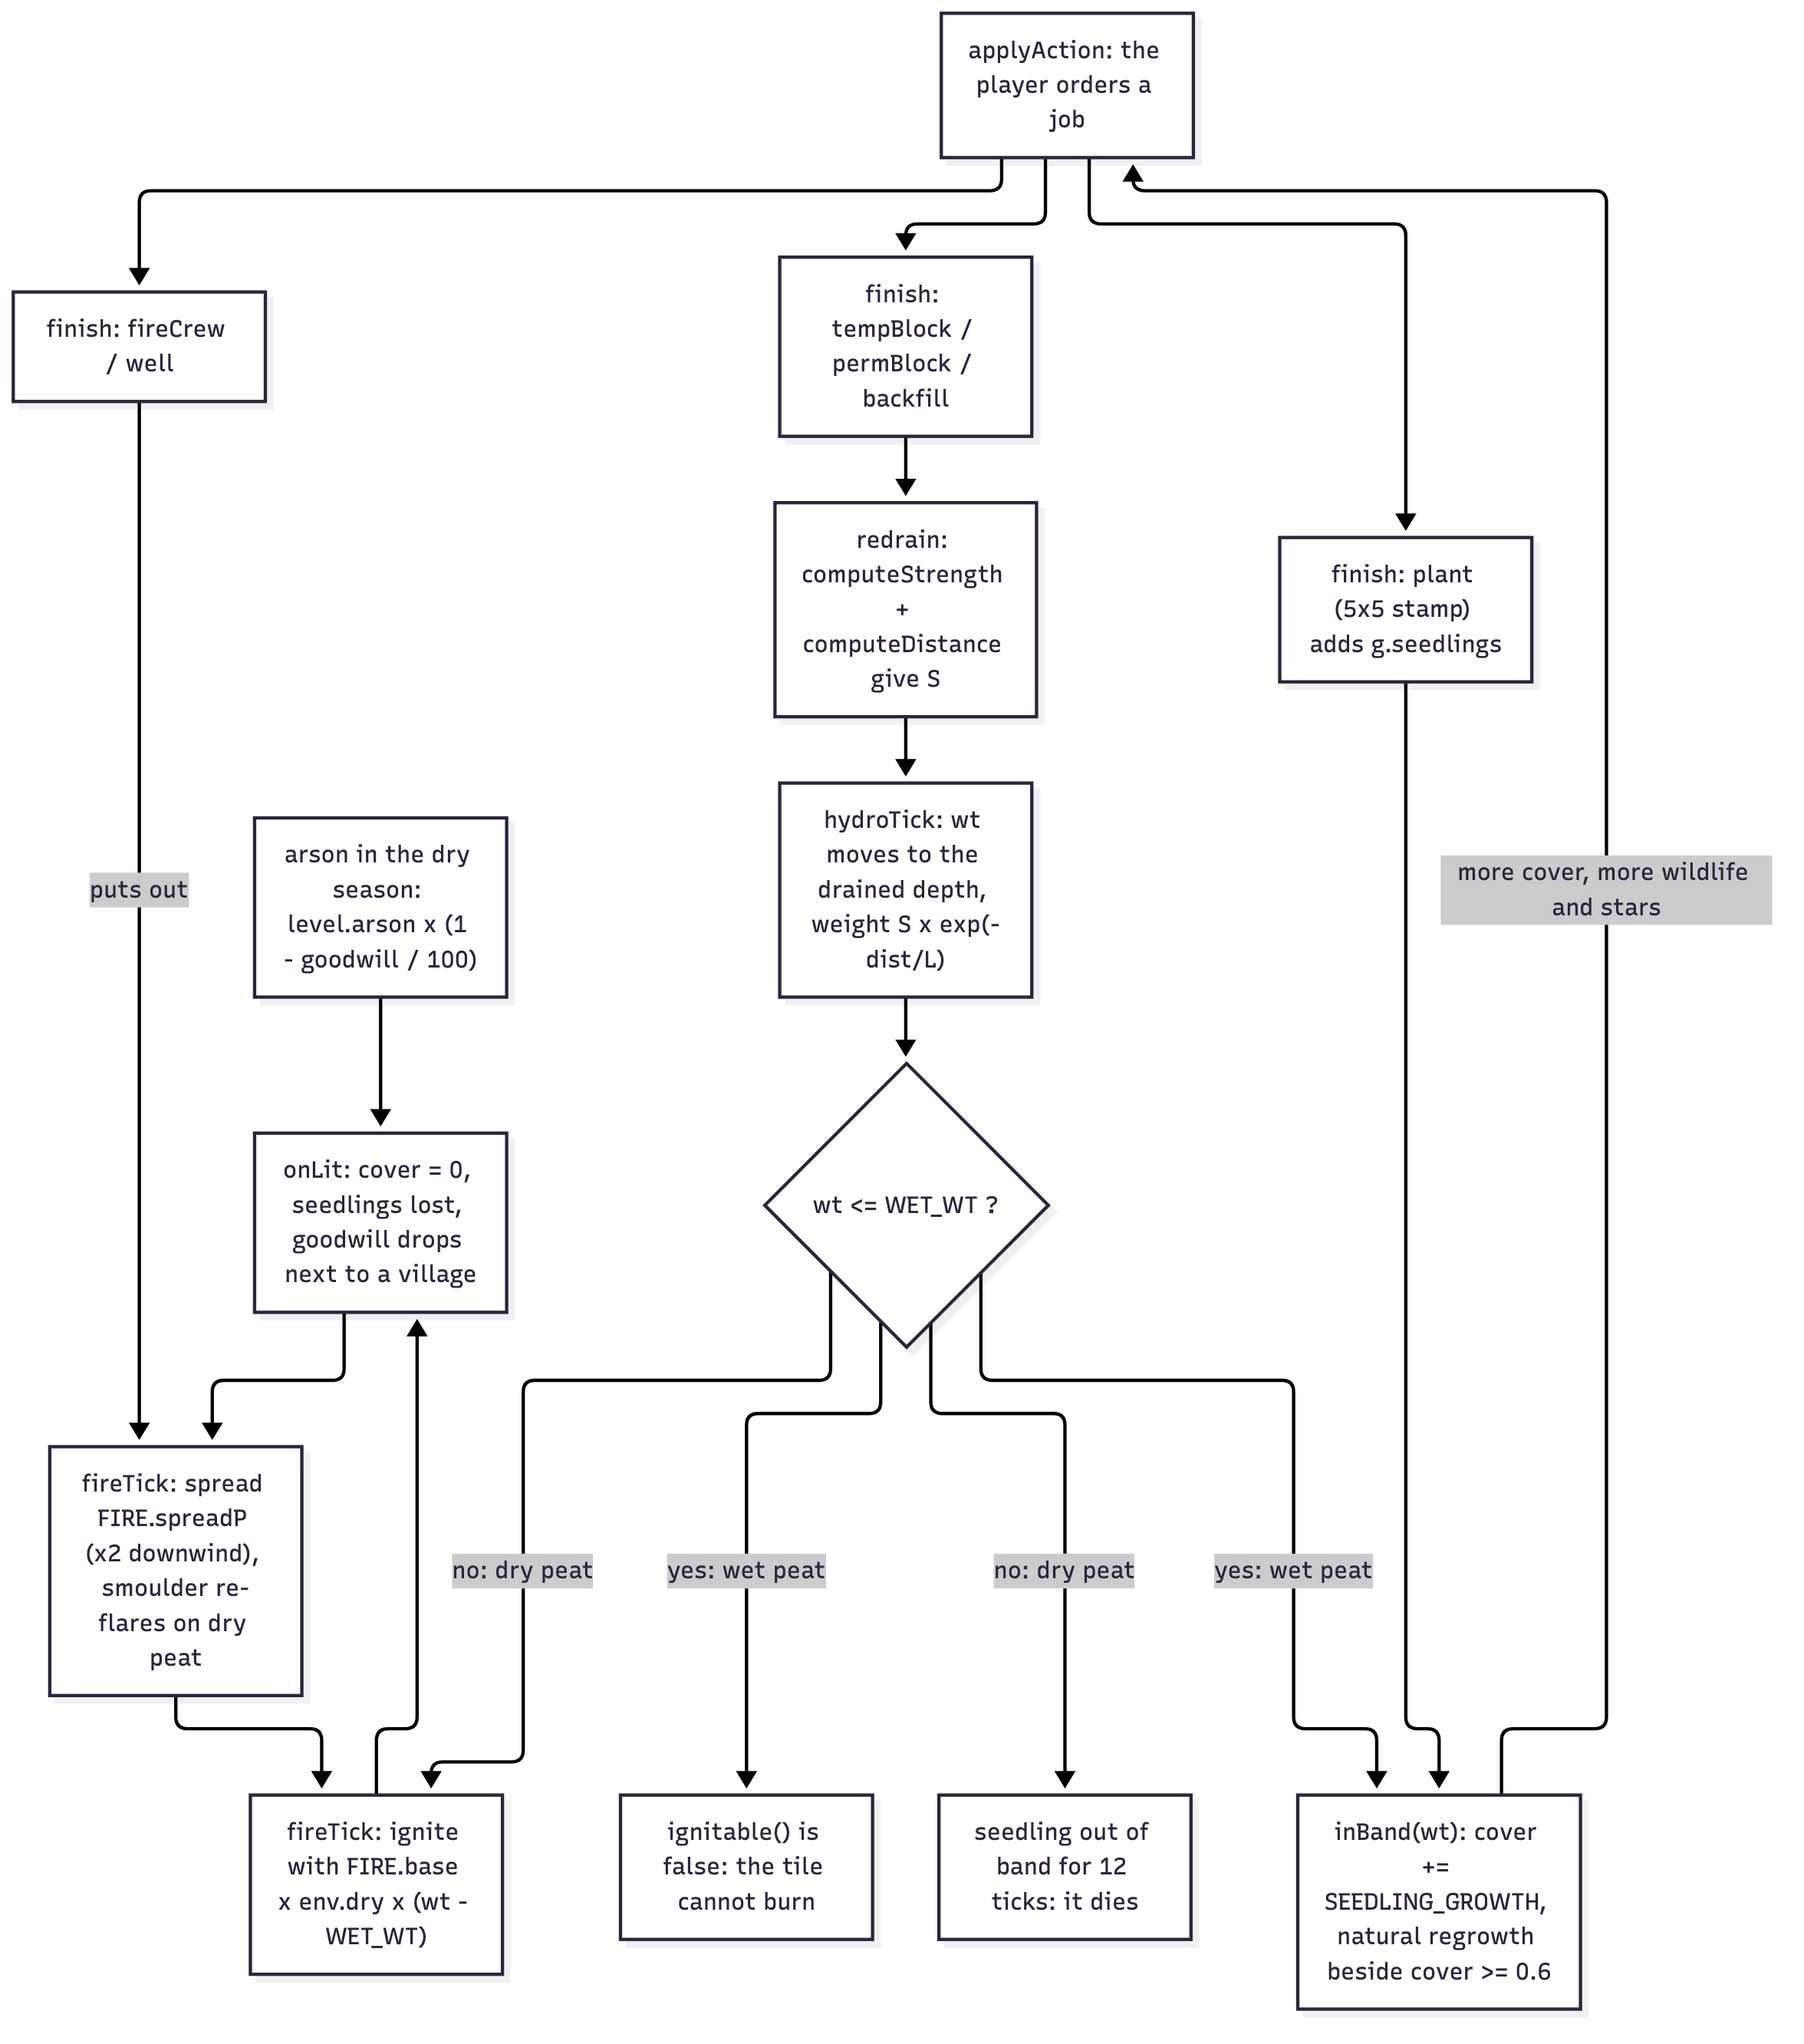
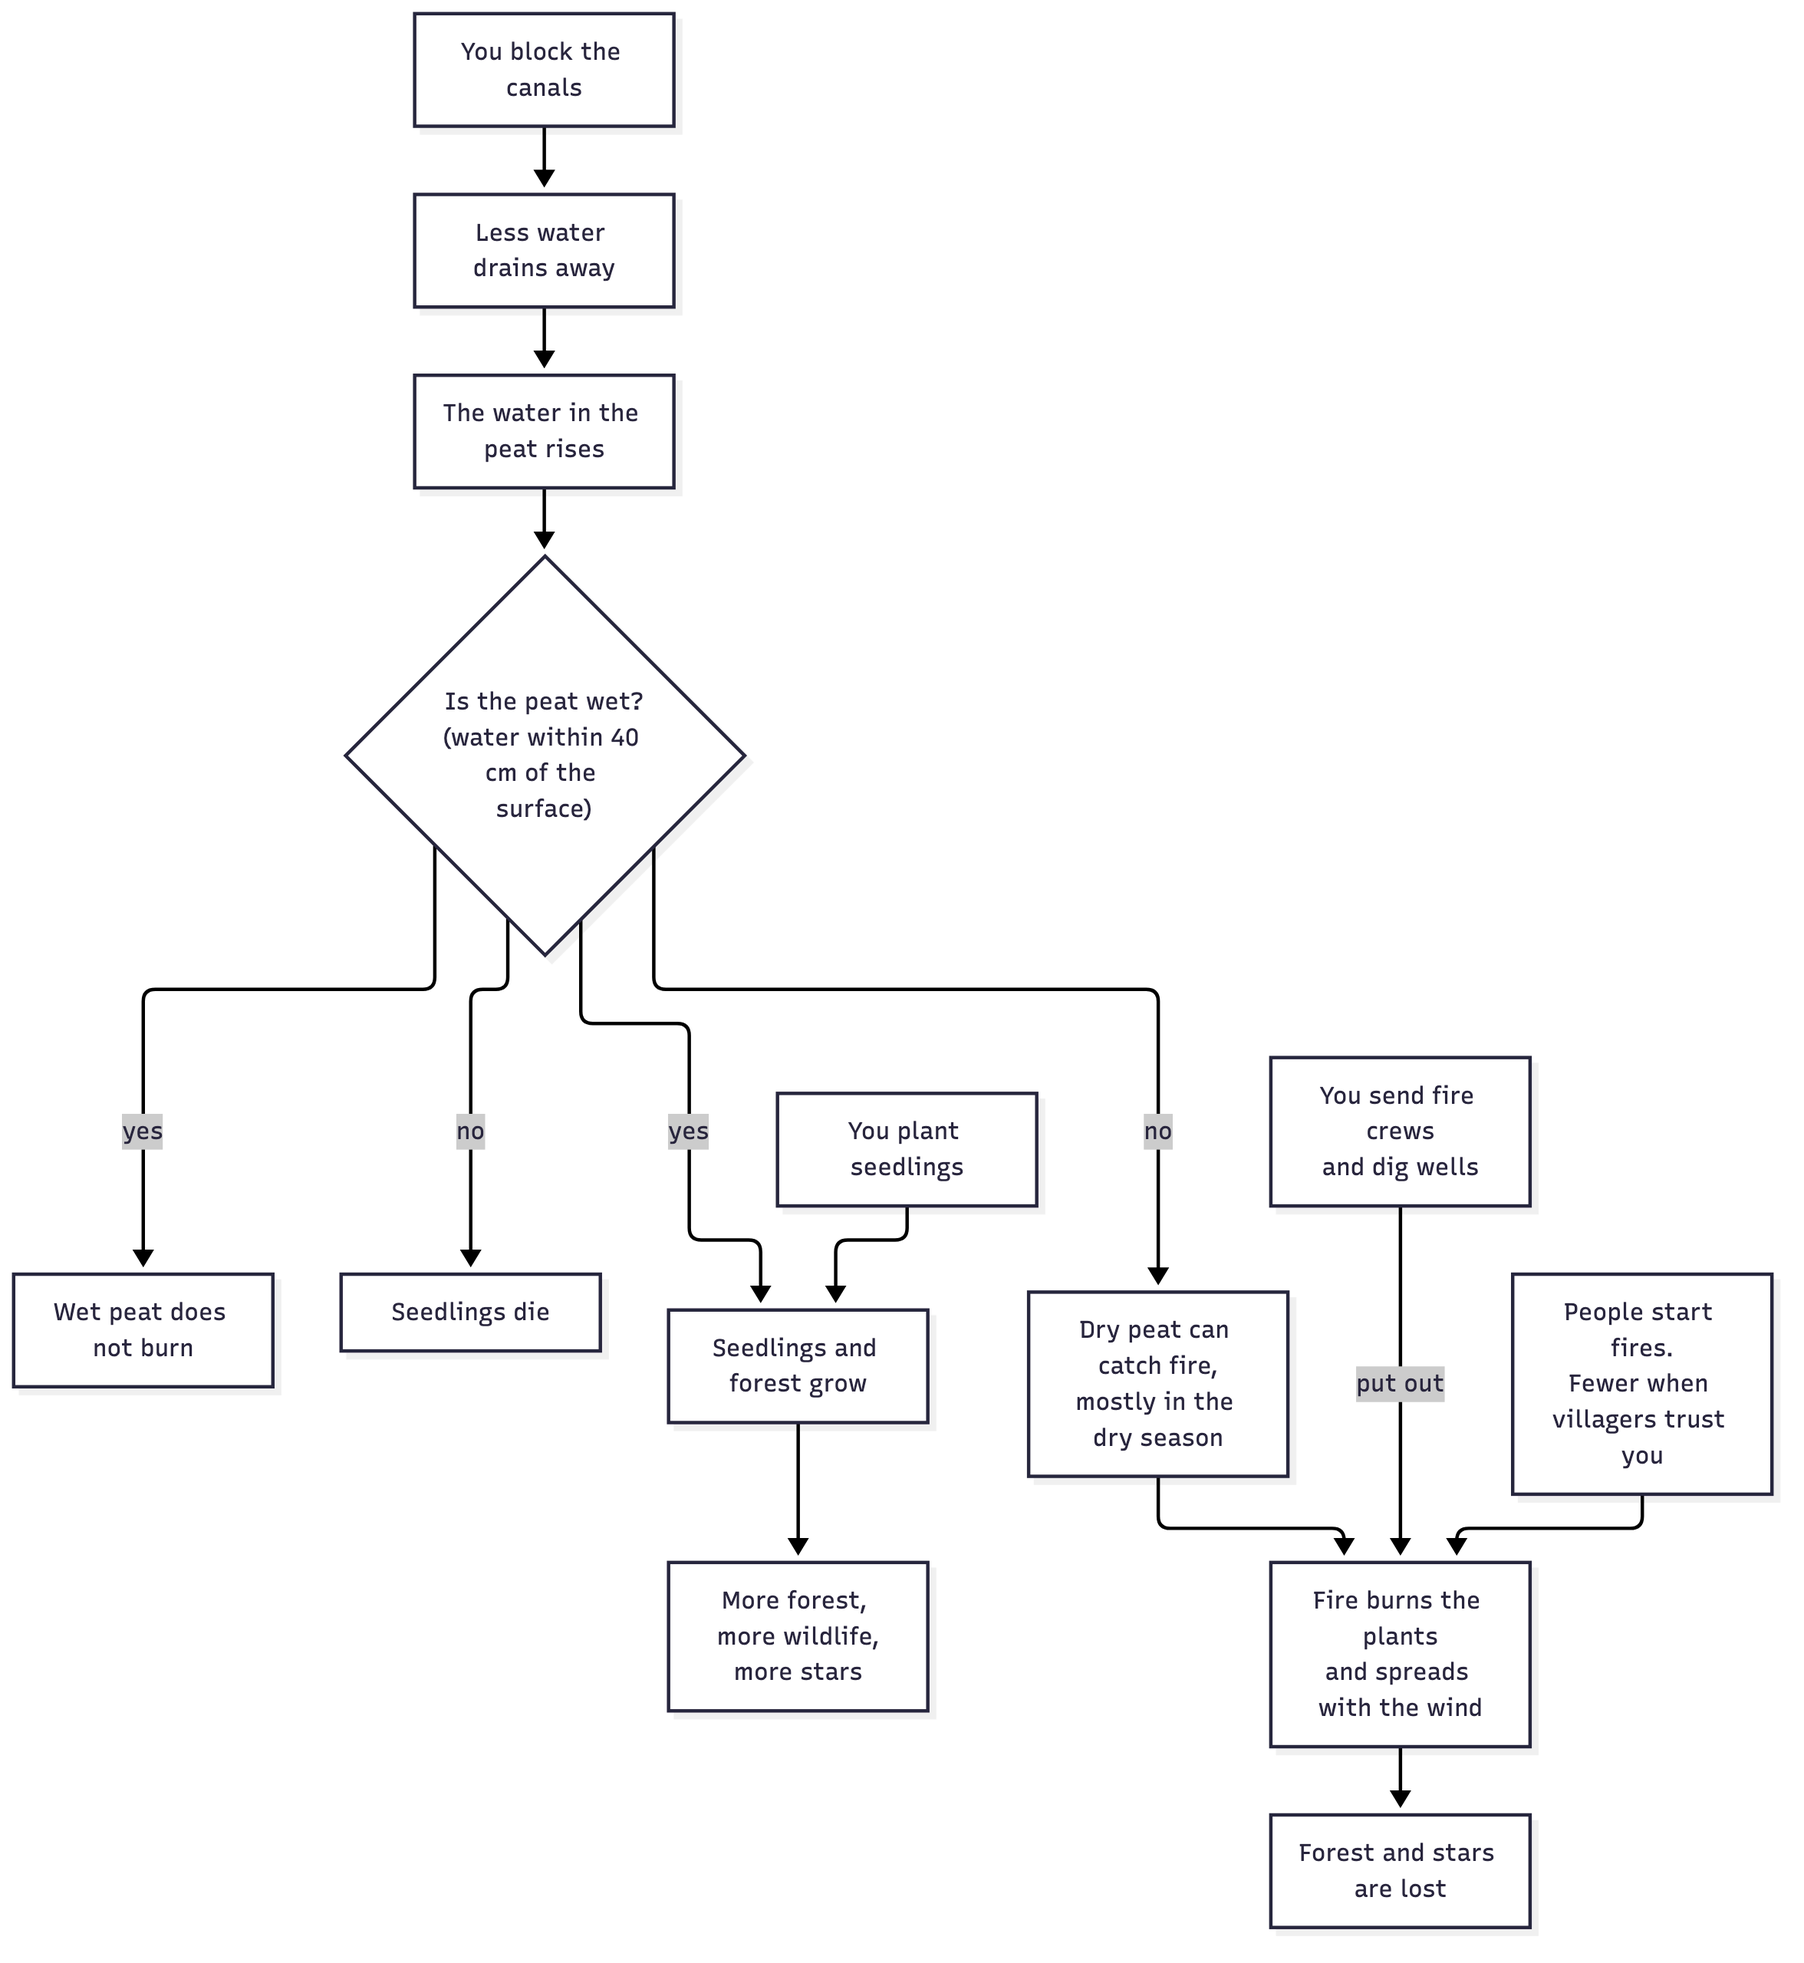
docs: write the loop diagram in plain words for players
The diagram labels now use plain words, not code names.
The diagram rule now asks for plain-word labels.

Claude-Session: https://claude.ai/code/session_0122Eb6A4L6KroW9bbCsS8j2

diff --git a/docs/diagrams/water-fire-plant-loop.md b/docs/diagrams/water-fire-plant-loop.md
@@ -1,26 +1,22 @@
 # Water, fire and plant loop
 
-The core gameplay loop of one sim tick: blocks raise the water table, wet peat does not burn, and seedlings grow only on wet peat. Source: `step()` in `src/sim/game.js`, `fireTick()` and `ignitable()` in `src/sim/fire.js`. Constants are named, not copied. Related: the gameplay spec `docs/superpowers/specs/2026-11-10-rewet-gameplay-design.md`.
+How water, fire and plants affect each other in Rewet, in plain words for players. The code version of this loop is `step()` in `src/sim/game.js`. Related: the gameplay spec `docs/superpowers/specs/2026-11-10-rewet-gameplay-design.md`.
 
 ```mermaid
 flowchart TD
-  A["applyAction: the player orders a job"] --> B["finish: tempBlock / permBlock / backfill"]
-  A --> L["finish: plant (5x5 stamp) adds g.seedlings"]
-  A --> K["finish: fireCrew / well"]
-  B --> C["redrain: computeStrength + computeDistance give S"]
-  C --> D["hydroTick: wt moves to the drained depth, weight S x exp(-dist/L)"]
-  D --> E{"wt <= WET_WT ?"}
-  E -- "yes: wet peat" --> F["ignitable() is false: the tile cannot burn"]
-  E -- "yes: wet peat" --> M["inBand(wt): cover += SEEDLING_GROWTH, natural regrowth beside cover >= 0.6"]
-  E -- "no: dry peat" --> G["fireTick: ignite with FIRE.base x env.dry x (wt - WET_WT)"]
-  E -- "no: dry peat" --> O["seedling out of band for 12 ticks: it dies"]
-  H["arson in the dry season: level.arson x (1 - goodwill / 100)"] --> I
-  G --> I["onLit: cover = 0, seedlings lost, goodwill drops next to a village"]
-  I --> J["fireTick: spread FIRE.spreadP (x2 downwind), smoulder re-flares on dry peat"]
-  J --> G
-  K -- "puts out" --> J
-  L --> M
-  M -- "more cover, more wildlife and stars" --> A
+  A["You block the canals"] --> B["Less water drains away"]
+  B --> C["The water in the peat rises"]
+  C --> D{"Is the peat wet?<br/>(water within 40 cm of the surface)"}
+  D -- "yes" --> E["Wet peat does not burn"]
+  D -- "yes" --> F["Seedlings and forest grow"]
+  D -- "no" --> H["Seedlings die"]
+  D -- "no" --> G["Dry peat can catch fire,<br/>mostly in the dry season"]
+  L["You plant seedlings"] --> F
+  F --> W["More forest, more wildlife,<br/>more stars"]
+  I["People start fires.<br/>Fewer when villagers trust you"] --> J
+  G --> J["Fire burns the plants<br/>and spreads with the wind"]
+  K["You send fire crews<br/>and dig wells"] -- "put out" --> J
+  J --> X["Forest and stars are lost"]
 ```
 
 Render: [water-fire-plant-loop.png](water-fire-plant-loop.png)

diff --git a/.claude/skills/rewet/docs-diagrams.md b/.claude/skills/rewet/docs-diagrams.md
@@ -22,7 +22,7 @@ A doc links to its diagram file. Do not put the diagram source in the doc. One d
 ## Writing the diagram
 
 - Use `flowchart TD` or `sequenceDiagram`. Keep it to 15 nodes or fewer.
-- Use the function names from the code as node labels.
+- Write the labels in plain words that a player understands, not code names. Name the source functions in the line under the title.
 - Put quotes around labels that have parentheses, colons or slashes.
 
 ## Each diagram request gives 2 files
